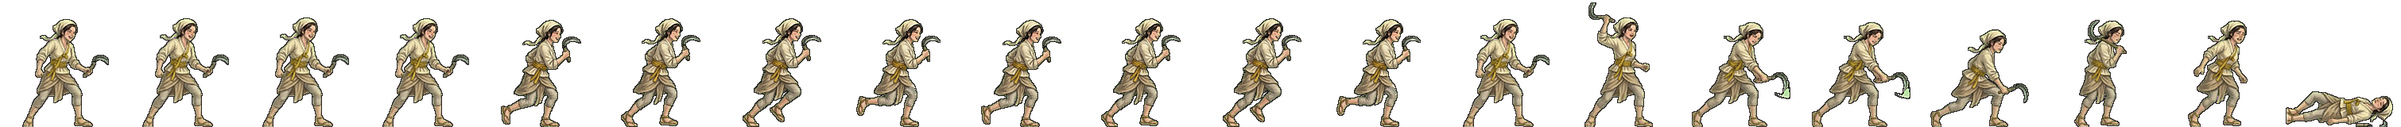
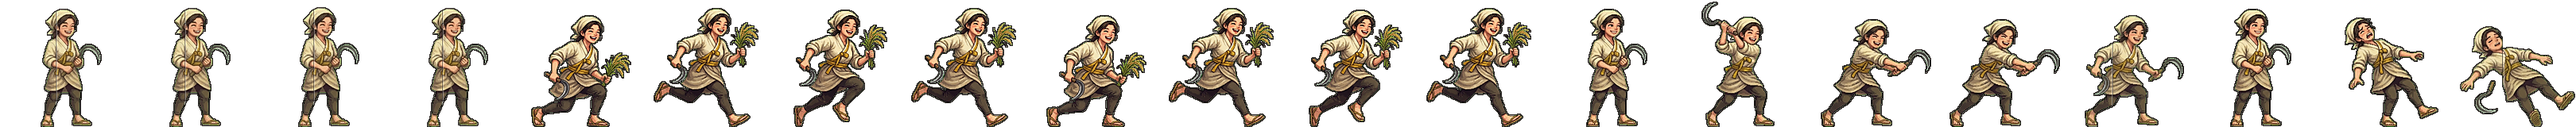
단비(달리기)·감실(걷기) 전투 띠 새로 — 교본 각도 마네킹 걸음 · 키 빼기 전에 우하단 ✦ 별을 바탕으로 덮음(발치에 붙어 남던 찌꺼기)
Claude-Session: https://claude.ai/code/session_01TRiuN9kn81xgdziumEqNAF

diff --git a/src/ui/realm/battle-strikes.ts b/src/ui/realm/battle-strikes.ts
@@ -139,11 +139,11 @@ const CONTACT: Readonly<Record<string, [number, number, number]>> = {
   marine: [15, .99, .40], militia: [14, .98, .33],
   'gen-g-spear': [15, .97, .35], 'gen-g-sword': [16, .99, .67], 'gen-w-spear': [14, .98, .56],
   'gen-mount': [15, .98, .22], 'gen-ara': [14, 0.99, 0.69], 'gen-aryeong': [14, 0.99, 0.34],
-  'gen-daeso': [14, 0.95, 0.38], 'gen-eureum': [14, .95, .13], 'gen-gamsil': [14, 0.94, 0.80],
+  'gen-daeso': [14, 0.95, 0.38], 'gen-eureum': [14, .95, .13], 'gen-gamsil': [14, 0.99, 0.30],
   'gen-haebi': [14, 0.87, 0.73], 'gen-heo': [14, 0.94, 0.46], 'gen-hyeokgeose': [14, 0.83, 0.94],
   'gen-hyeopbo': [14, .93, .21], 'gen-malgalgi': [14, 0.88, 0.28], 'gen-mari': [14, .98, .47],
   'gen-oi': [14, .98, .48], 'gen-onjo': [14, 0.83, 0.96], 'gen-soebi': [14, 0.80, 0.98],
-  'gen-soseono': [14, 0.99, 0.35], 'gen-bdanbi': [14, 0.90, 0.72], 'gen-dallae2': [14, 0.99, 0.33], 'gen-maryeo': [14, 0.91, 0.82], 'gen-horselord': [14, 0.89, 0.25], 'gen-olddaeso': [14, 0.93, 0.91], 'gen-maro': [14, 0.97, 0.49], 'gen-gwaeyu': [14, 0.98, 0.79], 'gen-daemusin': [14, 0.91, 0.38], 'gen-tahae': [14, 0.91, 0.77], 'gen-ocheongan': [14, 0.82, 0.54], 'gen-yusugan': [14, 0.95, 0.73], 'gen-odogan': [14, 0.96, 0.33], 'gen-pidogan': [14, 0.94, 0.75], 'gen-yeodogan': [14, 0.93, 0.62], 'gen-adogan': [14, 0.95, 0.41], 'gen-musoe': [14, 0.94, 0.42], 'gen-suro': [14, 0.99, 0.22], 'gen-waechief': [14, 0.95, 0.71], 'gen-hojin': [14, 0.97, 0.67], 'gen-jita': [14, 0.93, 0.29], 'gen-guryema': [14, 0.89, 0.28], 'gen-jibaekho': [14, 0.99, 0.33], 'gen-sobeol': [14, 0.95, 0.36], 'gen-alpyeong': [14, 0.95, 0.54], 'gen-hogong': [14, 0.98, 0.27], 'gen-geumbawi': [14, 0.91, 0.92], 'gen-keundol': [14, 0.90, 0.68], 'gen-jinha': [14, 0.76, 0.97], 'gen-duman': [14, 0.97, 0.42], 'gen-gomok': [14, 0.94, 0.61], 'gen-hneoul': [14, 0.92, 0.31], 'gen-tneoul': [14, 0.84, 0.61], 'gen-sdallae': [14, 0.89, 0.33], 'gen-yucheongan': [14, 0.94, 0.52], 'gen-sincheongan': [14, 0.91, 0.76], 'gen-singwigan': [14, 0.97, 0.29], 'gen-mdallae': [14, 0.98, 0.29], 'gen-mulbeom': [14, 0.95, 0.39], 'gen-beomi': [14, 0.88, 0.43], 'gen-danbi': [14, 0.90, 0.33], 'gen-mulsae': [14, 0.92, 0.46], 'gen-darae': [14, 0.89, 0.32], 'gen-mir': [14, 0.91, 0.33], 'gen-wan': [14, 0.94, 0.33], 'gen-gom': [14, 0.95, 0.78], 'gen-sagong': [14, 0.79, 0.99], 'gen-halla': [14, 0.86, 0.54], 'gen-areum': [14, 0.86, 0.68], 'gen-dokmudeom': [14, 0.99, 0.37], 'gen-beom': [14, 0.98, 0.28], 'gen-baram': [14, 0.96, 0.24], 'gen-goeun': [14, 0.95, 0.66], 'gen-byeol': [14, 0.76, 0.99], 'gen-sinneoul': [14, 0.95, 0.38], 'gen-haesol': [14, 0.95, 0.45], 'gen-odi': [14, 0.95, 0.37], 'gen-irang': [14, 0.86, 0.30], 'gen-dalli': [14, 0.93, 0.25], 'gen-bakdal': [14, 0.94, 0.31], 'gen-noeul': [14, 0.88, 0.27], 'gen-maehwa': [14, 0.90, 0.31], 'gen-gaon': [14, 0.98, 0.48], 'gen-eomni': [14, 0.96, 0.46], 'gen-nuri': [14, 0.98, 0.42], 'gen-bira': [14, 0.88, 0.42], 'gen-gureum': [14, 0.98, 0.42],
+  'gen-soseono': [14, 0.99, 0.35], 'gen-bdanbi': [14, 0.99, 0.49], 'gen-dallae2': [14, 0.99, 0.33], 'gen-maryeo': [14, 0.91, 0.82], 'gen-horselord': [14, 0.89, 0.25], 'gen-olddaeso': [14, 0.93, 0.91], 'gen-maro': [14, 0.97, 0.49], 'gen-gwaeyu': [14, 0.98, 0.79], 'gen-daemusin': [14, 0.91, 0.38], 'gen-tahae': [14, 0.91, 0.77], 'gen-ocheongan': [14, 0.82, 0.54], 'gen-yusugan': [14, 0.95, 0.73], 'gen-odogan': [14, 0.96, 0.33], 'gen-pidogan': [14, 0.94, 0.75], 'gen-yeodogan': [14, 0.93, 0.62], 'gen-adogan': [14, 0.95, 0.41], 'gen-musoe': [14, 0.94, 0.42], 'gen-suro': [14, 0.99, 0.22], 'gen-waechief': [14, 0.95, 0.71], 'gen-hojin': [14, 0.97, 0.67], 'gen-jita': [14, 0.93, 0.29], 'gen-guryema': [14, 0.89, 0.28], 'gen-jibaekho': [14, 0.99, 0.33], 'gen-sobeol': [14, 0.95, 0.36], 'gen-alpyeong': [14, 0.95, 0.54], 'gen-hogong': [14, 0.98, 0.27], 'gen-geumbawi': [14, 0.91, 0.92], 'gen-keundol': [14, 0.90, 0.68], 'gen-jinha': [14, 0.76, 0.97], 'gen-duman': [14, 0.97, 0.42], 'gen-gomok': [14, 0.94, 0.61], 'gen-hneoul': [14, 0.92, 0.31], 'gen-tneoul': [14, 0.84, 0.61], 'gen-sdallae': [14, 0.89, 0.33], 'gen-yucheongan': [14, 0.94, 0.52], 'gen-sincheongan': [14, 0.91, 0.76], 'gen-singwigan': [14, 0.97, 0.29], 'gen-mdallae': [14, 0.98, 0.29], 'gen-mulbeom': [14, 0.95, 0.39], 'gen-beomi': [14, 0.88, 0.43], 'gen-danbi': [14, 0.90, 0.33], 'gen-mulsae': [14, 0.92, 0.46], 'gen-darae': [14, 0.89, 0.32], 'gen-mir': [14, 0.91, 0.33], 'gen-wan': [14, 0.94, 0.33], 'gen-gom': [14, 0.95, 0.78], 'gen-sagong': [14, 0.79, 0.99], 'gen-halla': [14, 0.86, 0.54], 'gen-areum': [14, 0.86, 0.68], 'gen-dokmudeom': [14, 0.99, 0.37], 'gen-beom': [14, 0.98, 0.28], 'gen-baram': [14, 0.96, 0.24], 'gen-goeun': [14, 0.95, 0.66], 'gen-byeol': [14, 0.76, 0.99], 'gen-sinneoul': [14, 0.95, 0.38], 'gen-haesol': [14, 0.95, 0.45], 'gen-odi': [14, 0.95, 0.37], 'gen-irang': [14, 0.86, 0.30], 'gen-dalli': [14, 0.93, 0.25], 'gen-bakdal': [14, 0.94, 0.31], 'gen-noeul': [14, 0.88, 0.27], 'gen-maehwa': [14, 0.90, 0.31], 'gen-gaon': [14, 0.98, 0.48], 'gen-eomni': [14, 0.96, 0.46], 'gen-nuri': [14, 0.98, 0.42], 'gen-bira': [14, 0.88, 0.42], 'gen-gureum': [14, 0.98, 0.42],
   'gen-biryu': [14, 0.90, 0.44], 'gen-geumha': [14, 0.94, 0.61], 'gen-geota': [14, 0.86, 0.57], 'gen-soebo': [14, 0.87, 0.57],
   'gen-gaennae': [14, 249 / 264, 47 / 160],
   'gen-budeul': [14, 266 / 280, 51 / 160],

diff --git a/src/realm/data/art.ts b/src/realm/data/art.ts
@@ -496,7 +496,7 @@ export const GEN_ANIM: Readonly<Partial<Record<string, { ar: number; body: numbe
   soebi: { ar: 153 / 160, body: 0.887 }, // 11-08 초상대로 다시 (형: 「투구 쓰고 원본과 다르다」 · 제미나이 걷기 4×2 + 동작 4×2 → 20컷 · assets_src/realm/gemini/generals2) · 쇠 덩이 묶음 대신 큰 쇠망치
   ara: { ar: 265 / 160, body: 0.912 }, // 11-08 초상대로 다시 (형: 「투구 쓰고 원본과 다르다」 · 제미나이 걷기 4×2 + 동작 4×2 → 20컷 · assets_src/realm/gemini/generals2) · 11-08 처음 · ara 동작 띠 다시 — 형이 구움 (굽기 꾸러미 · 검수 1·3번)
   heo: { ar: 145 / 160, body: 0.900 }, // 11-08 초상대로 다시 (형: 「투구 쓰고 원본과 다르다」 · 제미나이 걷기 4×2 + 동작 4×2 → 20컷 · assets_src/realm/gemini/generals2) · 갑옷 대신 보석 윗옷·트임 치마 (형: 전투 옷은 더 드러나게)
-  gamsil: { ar: 155 / 160, body: 0.894 }, // 11-08 초상대로 다시 (형: 「투구 쓰고 원본과 다르다」 · 제미나이 걷기 4×2 + 동작 4×2 → 20컷 · assets_src/realm/gemini/generals2) · 어깨 내린 주황 겉옷·짧은 치마 (형: 전투 옷은 더 드러나게)
+  gamsil: { ar: 245 / 160, body: 0.956 }, // 11-08 초상대로 다시 (형: 「투구 쓰고 원본과 다르다」 · 제미나이 걷기 4×2 + 동작 4×2 → 20컷 · assets_src/realm/gemini/generals2) · 어깨 내린 주황 겉옷·짧은 치마 (형: 전투 옷은 더 드러나게)
   irang: { ar: 164 / 160, body: 0.900 }, // 11-08 초상대로 다시 (형: 「투구 쓰고 원본과 다르다」 · 제미나이 걷기 4×2 + 동작 4×2 → 20컷 · assets_src/realm/gemini/generals2) · 11-08 처음 · 문신 팔·구슬 목걸이·가죽 조끼 · 청동 단검 찌르기
   gureum: { ar: 162 / 160, body: 0.900 }, // 11-08 초상대로 다시 (형: 「투구 쓰고 원본과 다르다」 · 제미나이 걷기 4×2 + 동작 4×2 → 20컷 · assets_src/realm/gemini/generals2) · 11-08 처음 · 흰 삼베 짧은 윗옷·트임 치마 (형: 전투 옷은 더 드러나게)
   biryu: { ar: 153 / 160, body: 0.887, mount: true }, // 11-08 초상대로 다시 (형: 「투구 쓰고 원본과 다르다」 · 제미나이 걷기 4×2 + 동작 4×2 → 20컷 · assets_src/realm/gemini/generals2) · 11-08 처음 · 말 탄 장수 · 상투·붉은 민소매·큰 망치 내려치기
@@ -574,7 +574,7 @@ export const GEN_ANIM: Readonly<Partial<Record<string, { ar: number; body: numbe
   horselord: { ar: 145 / 160, body: 0.900 }, // 11-08 초상대로 다시 (형: 「투구 쓰고 원본과 다르다」 · 제미나이 걷기 4×2 + 동작 4×2 → 20컷 · assets_src/realm/gemini/generals2) · 11-08 처음 · 부여 말 주인 · 흰 털모자·흰 털 외투·곧은 칼
   maryeo: { ar: 151 / 160, body: 0.906 }, // 11-08 초상대로 다시 (형: 「투구 쓰고 원본과 다르다」 · 제미나이 걷기 4×2 + 동작 4×2 → 20컷 · assets_src/realm/gemini/generals2) · 11-08 처음 · 백제 마려 · 볏단 멘 농부·괭이
   dallae2: { ar: 232 / 160, body: 0.981 }, // 11-08 초상대로 다시 (형: 「투구 쓰고 원본과 다르다」 · 제미나이 걷기 4×2 + 동작 4×2 → 20컷 · assets_src/realm/gemini/generals2) · 11-08 처음 · dallae2 동작 띠 다시 — 형이 구움 (굽기 꾸러미 · 검수 1·3번)
-  bdanbi: { ar: 151 / 160, body: 0.850 }, // 11-08 초상대로 다시 (형: 「투구 쓰고 원본과 다르다」 · 제미나이 걷기 4×2 + 동작 4×2 → 20컷 · assets_src/realm/gemini/generals2) · 11-08 처음 · bdanbi 동작 띠 다시 — 형이 구움 (굽기 꾸러미 · 검수 1·3번)
+  bdanbi: { ar: 162 / 160, body: 0.931 }, // 11-08 초상대로 다시 (형: 「투구 쓰고 원본과 다르다」 · 제미나이 걷기 4×2 + 동작 4×2 → 20컷 · assets_src/realm/gemini/generals2) · 11-08 처음 · bdanbi 동작 띠 다시 — 형이 구움 (굽기 꾸러미 · 검수 1·3번)
 }
 /** 제 그림이 있는 장수 (장수 id → gen-<이름>.png 의 이름) */
 /** 도트 시험(연습 싸움) — 장수 id → anim-px 띠 이름 (GEN_OWN 에 없는 장수만 · 있는 장수는 같은 이름 띠가 있으면 쓴다) */

diff --git a/tools/sprite-kit/clean.py b/tools/sprite-kit/clean.py
@@ -29,7 +29,19 @@ if br[0] > 180 and br[2] > 180 and br[1] < 110:  # 우하단이 자홍 → 3×2 
     keysrc = src.replace('.png', '-prep.png')
     magenta = True
 else:
-    keysrc = src
+    # 키 빼기 전에 우하단 귀의 제미나이 ✦ (초록 위의 반투명 흰빛 = 초록이 세고 빨강·파랑도 조금 있는 픽셀) 를 바탕으로 덮는다 (11-12 단비: 별이 발치에 붙어 남았다)
+    bg = a[5, 5].astype(int)
+    y0, x0 = int(H * 0.72), int(W * 0.78)
+    sub = a[y0:, x0:].astype(int)
+    r_, g_, b_ = sub[..., 0], sub[..., 1], sub[..., 2]
+    star = (g_ > 150) & (r_ > bg[0] + 35) & (b_ > bg[2] + 35) & (g_ > r_ + 30) & (g_ > b_ + 30)
+    if star.any():
+        sub[star] = bg
+        a[y0:, x0:] = sub.astype(a.dtype)
+        Image.fromarray(a).save(src.replace('.png', '-prep.png'))
+        keysrc = src.replace('.png', '-prep.png')
+    else:
+        keysrc = src
     magenta = False
 subprocess.run(['node', 'tools/key-png.mjs', keysrc, out], check=True, capture_output=True)
 a = np.array(Image.open(out).convert('RGBA'))

diff --git a/tools/sprite-kit/figs.py b/tools/sprite-kit/figs.py
@@ -50,6 +50,11 @@ def figures(sheet):
         return []
     sl = ndimage.find_objects(lab)
     area = ndimage.sum(m, lab, range(1, n + 1))
+    # 우하단 귀(워터마크 ✦ 자리)의 작은 조각은 버린다 — 키 빼기에 남은 별 찌꺼기가 사람에 붙어 들어왔다 (11-12 단비)
+    for q in range(n):
+        if area[q] < area.max() * 0.01 and sl[q][1].start > w * 0.78 and sl[q][0].start > h * 0.72:
+            area[q] = 0
+            a[lab == q + 1, 3] = 0
     # 가까운 덩어리끼리 묶는다(한 사람이 키 빼기로 몇 조각으로 갈린 것 · 창끝) — 틈이 그림 크기의 1.2% 안
     par = list(range(n))
 
